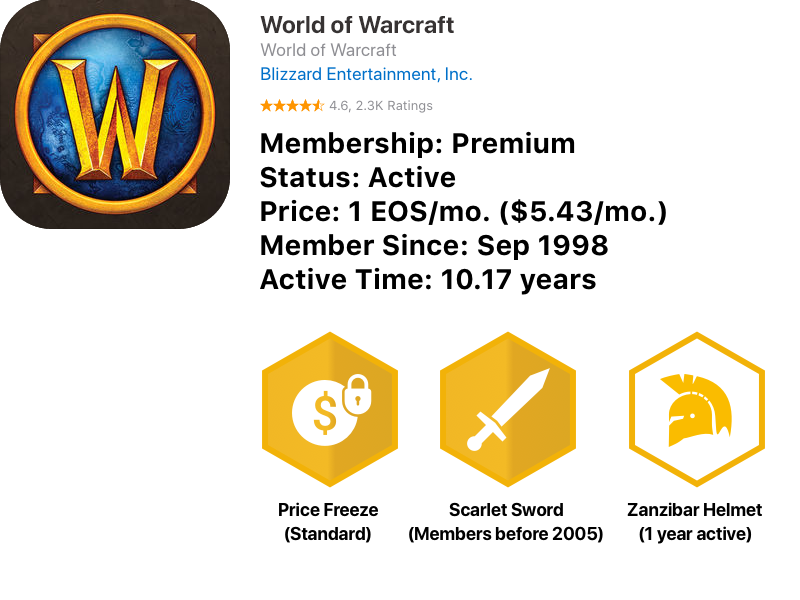
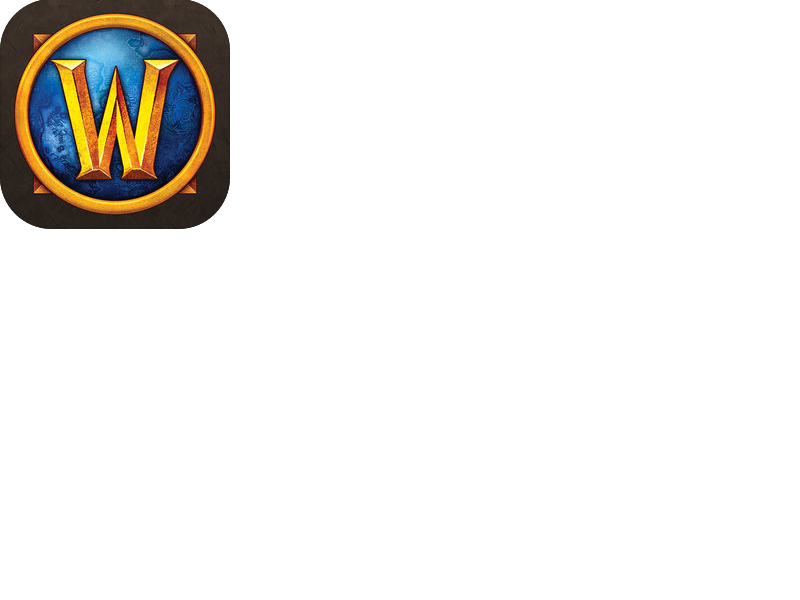
added secondary pages

diff --git a/frontend/src/styles/Store.css b/frontend/src/styles/Store.css
@@ -18,6 +18,19 @@
 	height: 600px;
 }
 
+.Store-24h-2 {
+	background-image: url("/assets/store-pages/24h-2.png");
+	width: 800px;
+	height: 600px;
+}
+
+.Store-wow-2 {
+	background-image: url("/assets/store-pages/wow-2.png");
+	width: 800px;
+	height: 600px;
+}
+
+
 .Store .buttons {
 	top: 260px;
 	position: absolute;

diff --git a/frontend/src/pages/store.jsx b/frontend/src/pages/store.jsx
@@ -22,6 +22,9 @@ class Store extends Component {
   }
 
   async handleSubscribe(event) {
+
+    this.props.handlePageChange(this.props.storeId + "-2")
+
     event.preventDefault();
 
     let account = accounts[0]['name']
